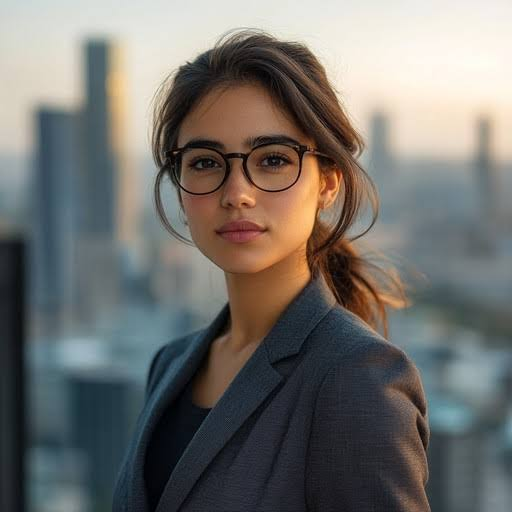
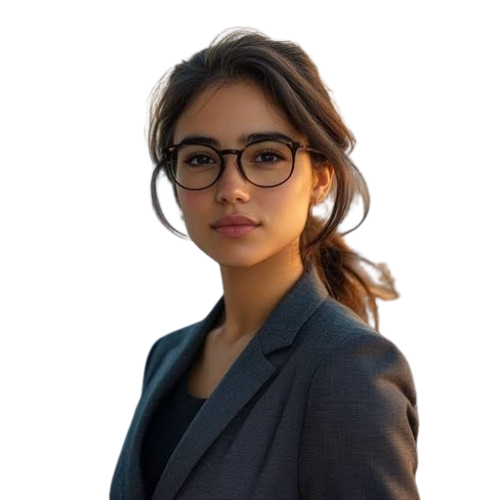
Brand palette, PROGENESIS'27 wordmark, fix overlaps

diff --git a/app/globals.css b/app/globals.css
@@ -1,82 +1,106 @@
-:root{--bg:#f5eefa;--navy:#1c2b8f;--fg:#0a0a0a;--mute:#6f6b7a;--line:rgba(10,10,10,.14);--font:"Poppins","Helvetica Neue",Arial,system-ui,sans-serif}
+:root{
+  --bg:#090916; --void:#080511; --white:#f9fafe;
+  --deep:#3b1a8f;    /* TODO: replace with row 1 hex from your palette sheet */
+  --royal:#5b2bd9;   /* TODO: replace with row 2 hex */
+  --violet3:#6d3af2; /* TODO: replace with row 3 hex */
+  --bright:#8424fc; --orchid:#9c24cc; --lavender:#b9a4ff;
+  --magenta:#ec31cf; --orange:#fa9032;
+  --fg:var(--white); --mute:#a89bc2; --line:rgba(249,250,254,.14); --navy:var(--lavender);
+  --font:"Poppins","Helvetica Neue",Arial,system-ui,sans-serif;
+}
 *{box-sizing:border-box;margin:0;padding:0}
 html{-webkit-text-size-adjust:100%}
-body{background:var(--bg);color:var(--fg);font-family:var(--font);line-height:1.2;-webkit-font-smoothing:antialiased}
+html,body{overflow-x:clip}
+body{background:radial-gradient(90vw 55vh at 50% 0,rgba(132,36,252,.28),transparent 70%) no-repeat,var(--bg);
+color:var(--fg);font-family:var(--font);line-height:1.2;-webkit-font-smoothing:antialiased}
 a{color:inherit;text-decoration:none}
 .grad{color:var(--navy)}
+
+/* ===== Role colours: one place, used by ID cards AND profile pages ===== */
+.wrap,.idcard{--role:var(--bright)}
+[data-role="president"]{--role:var(--deep)}
+[data-role="co-president"]{--role:var(--royal)}
+[data-role="co-lead"]{--role:var(--violet3)}
+[data-role="technical"]{--role:var(--bright)}
+[data-role="module-lead"]{--role:var(--orchid)}
+[data-role="marketing"]{--role:var(--lavender)}
+[data-role="marketing"] .idRole,[data-role="marketing"] .roleTop{color:var(--void)}
+
+/* ===== PROGENESIS'27 wordmark ===== */
+.wm{font-family:"Archivo Variable","Archivo",Arial,sans-serif;font-weight:900;font-stretch:125%;text-transform:uppercase;letter-spacing:-.02em;line-height:1;white-space:nowrap}
+.wmA{background:linear-gradient(180deg,rgba(185,164,255,.75),rgba(132,36,252,.12));-webkit-background-clip:text;background-clip:text;color:transparent}
+.wmB{background:linear-gradient(180deg,rgba(250,144,50,.9),rgba(236,49,207,.15));-webkit-background-clip:text;background-clip:text;color:transparent}
+
+/* ===== Profile page ===== */
 .wrap{position:relative;max-width:560px;margin:0 auto;padding:0 24px calc(56px + env(safe-area-inset-bottom));min-height:170svh}
+
 /* sticky header + avatar */
-.bar{position:fixed;top:0;left:0;right:0;z-index:20;height:72px;background:rgba(245,238,250,.85);backdrop-filter:blur(14px);border-bottom:1px solid var(--line)}
+.bar{position:fixed;top:0;left:0;right:0;z-index:20;height:72px;background:rgba(9,9,22,.94);border-bottom:1px solid var(--line)}
 .barText{position:fixed;z-index:25;top:0;left:72px;height:72px;display:flex;flex-direction:column;justify-content:center;pointer-events:none}
-.barText b{font-size:.9rem;font-weight:600;line-height:1.25}.barText span{font-size:.7rem;color:var(--mute);letter-spacing:.06em;text-transform:uppercase}
-.barBrand{position:fixed;z-index:25;top:0;right:20px;height:72px;display:flex;align-items:center;font-size:.65rem;font-weight:800;letter-spacing:.22em;color:var(--navy)}
+.barText b{font-size:.9rem;font-weight:600;line-height:1.25}
+.barText span{font-size:.7rem;color:var(--mute);letter-spacing:.06em;text-transform:uppercase}
+.barBrand{position:fixed;z-index:25;top:0;right:20px;height:72px;display:flex;align-items:center;font-size:.65rem;font-weight:800;letter-spacing:.22em;color:var(--lavender)}
 .photoWrap{position:fixed;inset:0;z-index:30;pointer-events:none}
-.photo{position:absolute;left:0;top:0;overflow:hidden;will-change:transform,clip-path;backface-visibility:hidden}
-.photo img{width:100%;height:100%;object-fit:cover;object-position:50% 0;transform-origin:50% 18%;display:block}
+.photo{position:absolute;left:0;top:0;overflow:hidden;will-change:transform,opacity;backface-visibility:hidden}
+.photo img{width:100%;height:100%;object-fit:cover;object-position:50% 0;display:block}
+.photo::after{content:"";position:absolute;left:0;right:0;bottom:0;height:30%;background:linear-gradient(transparent,var(--bg));pointer-events:none}
+.avatar{position:absolute;left:16px;top:14px;width:44px;height:44px;border-radius:50%;object-fit:cover;object-position:50% 8%;
+background:#1d1030;border:1px solid rgba(255,255,255,.3)}
+
 /* hero */
-.spacer{width:min(78vw,360px);aspect-ratio:4/5;margin:10svh auto 0}
-.heroText{margin-top:28px}
-.title{font-weight:800;text-transform:uppercase;color:var(--navy);font-size:clamp(2.2rem,11.5vw,3.6rem);line-height:1.02;letter-spacing:-.015em}
-.who{margin-top:10px;font-weight:600;text-transform:uppercase;color:#55525f;font-size:clamp(1rem,4.6vw,1.35rem);letter-spacing:.01em}
-.field{margin-top:6px;font-weight:500;color:var(--mute);font-size:.85rem}
+.spacer{position:relative;width:min(78vw,360px);aspect-ratio:4/5;margin:10svh auto 0}
+.roleTop{position:absolute;z-index:1;top:-3rem;left:50%;transform:translateX(-50%);padding:8px 18px;border-radius:999px;white-space:nowrap;
+background:var(--role);border:1px solid rgba(255,255,255,.4);box-shadow:0 0 26px var(--role);
+font-weight:800;font-size:.8rem;letter-spacing:.16em;text-transform:uppercase;color:#fff}
+.wordmark{position:absolute;left:50%;top:26%;transform:translateX(-50%);width:92vw;text-align:center;z-index:0;pointer-events:none;user-select:none;
+font-size:7.4vw;padding-bottom:.2em;border-bottom:1px solid rgba(185,164,255,.22)}
+.heroText{margin-top:36px}
+.title{font-weight:800;text-transform:uppercase;color:#fff;font-size:clamp(2.2rem,11.5vw,3.6rem);line-height:1.02;letter-spacing:-.015em;overflow-wrap:anywhere}
+.who{margin-top:10px;font-weight:600;text-transform:uppercase;color:#d7c9f0;font-size:clamp(1rem,4.6vw,1.35rem);letter-spacing:.01em;overflow-wrap:anywhere}
+.field{margin-top:14px;font-weight:800;color:#fff;font-size:clamp(1.05rem,5vw,1.4rem);letter-spacing:.04em;text-transform:uppercase}
+.field::before{content:"";display:inline-block;width:28px;height:3px;margin-right:10px;vertical-align:middle;background:var(--role);box-shadow:0 0 12px var(--role)}
 .batch{margin-top:14px;font-weight:600;color:var(--mute);font-size:.8rem;letter-spacing:.35em}
+
 /* links */
 .links{margin-top:14svh}
 .links a{display:flex;justify-content:space-between;align-items:center;padding:26px 2px;border-top:1px solid var(--line);
 font-size:clamp(1.15rem,5.2vw,1.5rem);font-weight:800;letter-spacing:-.03em;text-transform:uppercase;transition:padding .25s}
 .links a:last-child{border-bottom:1px solid var(--line)}
 .links a:active,.links a:hover{padding-left:10px}
-.links svg{width:1.1rem;height:1.1rem;flex:none;transition:transform .25s}.links a:hover svg{transform:translate(3px,-3px)}
+.links svg{width:1.1rem;height:1.1rem;flex:none;transition:transform .25s,color .25s}
+.links a:hover svg,.links a:focus-visible svg{transform:translate(3px,-3px);color:var(--orange)}
 .foot{margin-top:40px;font-size:.65rem;font-weight:800;letter-spacing:.24em;color:var(--mute)}
-/* home + qr */
+
+/* ===== Home + QR pages ===== */
 .page{max-width:760px;margin:0 auto;padding:8vh 24px 60px}
 .page h1{font-size:clamp(2.4rem,12vw,4.5rem);font-weight:800;letter-spacing:-.03em;line-height:1;text-transform:uppercase}
+.page h1.wm{font-size:clamp(1.3rem,7.6vw,2.6rem);font-weight:900;letter-spacing:-.02em;line-height:1}
 .page .sub{color:var(--mute);margin:12px 0 36px}
 .back{border-bottom:1px solid var(--fg);font-size:.9rem}
 .grid{display:grid;gap:16px;grid-template-columns:repeat(auto-fill,minmax(200px,1fr))}
-.card{display:block}.card img{width:100%;aspect-ratio:4/5;object-fit:cover;display:block;background:#ebe0f3;border-radius:6px}
-.card div{padding:10px 0;font-weight:800;text-transform:uppercase;letter-spacing:-.02em}.card small{color:var(--mute);font-weight:500}
+.card{display:block}
+.card img{width:100%;aspect-ratio:4/5;object-fit:cover;display:block;background:#1d1030;border-radius:6px}
+.card div{padding:10px 0;font-weight:800;text-transform:uppercase;letter-spacing:-.02em}
+.card small{color:var(--mute);font-weight:500}
 .qr img{border:1px solid var(--line);padding:10px;aspect-ratio:1;background:#fff}
-.btn{cursor:pointer;font:inherit;font-weight:600;color:#fff;background:var(--navy);border:0;padding:12px 16px}
-.btn:disabled{opacity:.4}.btn.sm{width:100%;background:#e6dbee;color:#000}
-.field.input,.fieldin{width:100%}
-input.field{display:block;width:100%;padding:12px;border:1px solid var(--fg);font:inherit;margin:8px 0 20px;background:#fff;color:#000}
+.btn{cursor:pointer;font:inherit;font-weight:600;color:var(--void);background:var(--navy);border:0;padding:12px 16px}
+.btn:disabled{opacity:.4}
+.btn.sm{width:100%;background:#1d1030;color:var(--fg)}
+input.field{display:block;width:100%;padding:12px;border:1px solid var(--line);font:inherit;margin:8px 0 20px;background:#120a22;color:var(--fg)}
+
+/* ===== ID cards (home page) ===== */
+.idcard{position:relative;aspect-ratio:3/4;border-radius:20px;overflow:hidden;color:#fff;container-type:inline-size;
+background:linear-gradient(165deg,var(--role) 0%,#080511 68%);
+background:linear-gradient(165deg,color-mix(in srgb,var(--role) 75%,#080511) 0%,#080511 68%);
+box-shadow:0 10px 30px rgba(8,5,17,.5)}
+.idWord{position:absolute;left:0;right:0;top:22%;text-align:center;font-size:7.4cqw;opacity:.9}
+.idcard img{position:absolute;left:0;right:0;bottom:0;width:100%;height:78%;aspect-ratio:auto;object-fit:cover;object-position:50% 0;background:none;border-radius:0}
+.idcard::after{content:"";position:absolute;left:0;right:0;bottom:0;height:45%;background:linear-gradient(transparent,rgba(8,5,17,.92));pointer-events:none}
+.idRole{position:absolute;z-index:3;top:14px;left:14px;max-width:calc(100% - 28px);padding:6px 10px;border-radius:999px;background:var(--role);
+border:1px solid rgba(255,255,255,.35);font-size:.68rem;font-weight:800;letter-spacing:.06em;text-transform:uppercase;line-height:1.2;
+white-space:nowrap;overflow:hidden;text-overflow:ellipsis}
+.idcard .idMeta{position:absolute;z-index:3;left:16px;right:16px;bottom:14px;padding:0}
+.idcard .idName{padding:0;font-size:1.1rem;line-height:1.15}
+.idcard .idTeam{padding:0;margin-top:4px;font-size:.7rem;font-weight:600;letter-spacing:.04em;text-transform:uppercase;color:rgba(249,250,254,.75)}
+
 @media(prefers-reduced-motion:reduce){*{scroll-behavior:auto!important;transition:none!important}}
-/* ===== BLACK + PURPLE THEME ===== */
-:root{--bg:#07030f;--fg:#f4efff;--mute:#a89bc2;--line:rgba(255,255,255,.14);--navy:#c9a8ff}
-body{background:radial-gradient(90vw 55vh at 50% 0,rgba(114,41,214,.38),transparent 70%) no-repeat,var(--bg)}
-.bar{background:rgba(10,4,20,.94);backdrop-filter:none}
-.barBrand{color:#c9a8ff}
-.btn{color:#07030f}
-.btn.sm{background:#1d1030;color:#f4efff}
-.card img{background:#1d1030}
-.idcard{background:linear-gradient(165deg,var(--role) 0%,#0b0414 65%)}
-
-/* Role colours on the profile page (same shades as the ID cards) */
-.wrap{--role:#5b21b6}
-.wrap[data-role="president"]{--role:#3b0a6e}
-.wrap[data-role="co-president"]{--role:#55199c}
-.wrap[data-role="co-lead"]{--role:#7229d6}
-.wrap[data-role="technical"]{--role:#8b5cf6}
-.wrap[data-role="module-lead"]{--role:#a855f7}
-.wrap[data-role="marketing"]{--role:#c026d3}
-
-/* Profile hero: role pill, wordmark, photo */
-.spacer{position:relative}
-.roleTop{position:absolute;z-index:1;top:-3rem;left:50%;transform:translateX(-50%);padding:8px 18px;border-radius:999px;white-space:nowrap;
-background:var(--role);border:1px solid rgba(255,255,255,.4);box-shadow:0 0 26px var(--role);
-font-weight:800;font-size:.8rem;letter-spacing:.16em;text-transform:uppercase;color:#fff}
-.wordmark{position:absolute;left:50%;top:10%;transform:translateX(-50%);z-index:0;white-space:nowrap;pointer-events:none;user-select:none;
-font-weight:800;line-height:1;letter-spacing:-.05em;font-size:clamp(3rem,17vw,7rem);
-color:transparent;-webkit-text-stroke:1.5px rgba(201,168,255,.4)}
-.wordmark.glow{-webkit-text-stroke:0;background:linear-gradient(180deg,var(--role),transparent 85%);-webkit-background-clip:text;background-clip:text;opacity:.9}
-.photo{will-change:transform,opacity;border-radius:0}
-.photo::after{content:"";position:absolute;left:0;right:0;bottom:0;height:30%;background:linear-gradient(transparent,var(--bg));pointer-events:none}
-.avatar{position:absolute;left:16px;top:14px;width:44px;height:44px;border-radius:50%;object-fit:cover;object-position:50% 8%;
-background:#1d1030;border:1px solid rgba(255,255,255,.3)}
-.title{color:#fff}
-.who{color:#d7c9f0}
-.field{margin-top:14px;font-weight:800;color:#fff;font-size:clamp(1.05rem,5vw,1.4rem);letter-spacing:.04em;text-transform:uppercase}
-.field::before{content:"";display:inline-block;width:28px;height:3px;margin-right:10px;vertical-align:middle;background:var(--role);box-shadow:0 0 12px var(--role)}
-.batch{color:var(--mute)}
-html,body{overflow-x:clip}

diff --git a/app/page.js b/app/page.js
@@ -7,15 +7,20 @@ export default function Home() {
     <main className="page">
       
       <Reveal>
-        <h1 className="grad">PROGENESIS</h1>
+        <h1 className="wm"><span className="wmA">PROGENESIS</span><span className="wmB">'27</span></h1>
         <p className="sub">The team organizing hackathons.</p>
       </Reveal>
       <div className="grid">
         {team.map((m) => (
-          <Link key={m.slug} href={`/team/${m.slug}`} className="card">
-            <img src={m.photo} alt={m.name} />
-            <div><b>{m.name}</b><br /><small>{m.role}</small></div>
-          </Link>
+          <Link key={m.slug} href={`/team/${m.slug}`} className="card idcard" data-role={m.roleType}>
+  <span className="idRole">{m.designation.split(" — ")[0]}</span>
+  <span className="idWord wm" aria-hidden><span className="wmA">PROGENESIS</span><span className="wmB">'27</span></span>
+  {m.photo && <img src={m.photo} alt={m.name} />}
+  <div className="idMeta">
+    <div className="idName">{m.name}</div>
+    {m.designation.split(" — ")[1] && <div className="idTeam">{m.designation.split(" — ")[1]}</div>}
+  </div>
+</Link>
         ))}
       </div>
       <p className="sub" style={{ marginTop: 40 }}><Link className="back" href="/qr">QR codes →</Link></p>

diff --git a/components/ProfileView.js b/components/ProfileView.js
@@ -64,10 +64,9 @@ export default function ProfileView({ member: m }) {
   return (
     <main className="wrap" data-role={m.roleType}>
       {vp && <PhotoAndBar key={`${vp.w}x${vp.h}`} member={m} w={vp.w} h={vp.h} />}
-      <div className="spacer">
+      <div className="spacer" style={vp ? { width: Math.min(vp.w * 0.78, 360), marginTop: vp.h * 0.1 } : undefined}>
   <span className="roleTop">{roleLabel}</span>
-  <span className="wordmark glow" aria-hidden>PROGENESIS</span>
-  <span className="wordmark" aria-hidden>PROGENESIS</span>
+  <span className="wordmark wm" aria-hidden><span className="wmA">PROGENESIS</span><span className="wmB">'27</span></span>
 </div>
 <motion.div className="heroText" initial={{ opacity: 0, y: 20 }} animate={{ opacity: 1, y: 0 }} transition={{ delay: 0.4, duration: 0.8 }}>
   <h1 className="title">{m.name}</h1>

diff --git a/app/layout.js b/app/layout.js
@@ -1,3 +1,4 @@
+
 import "@fontsource/poppins/500.css";
 import "@fontsource/poppins/600.css";
 import "@fontsource/poppins/800.css";
